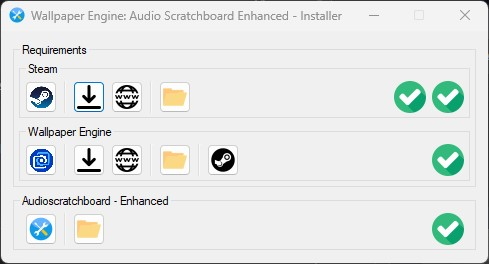
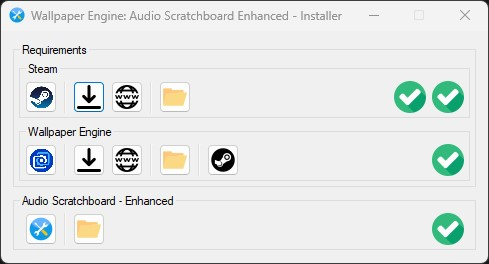
Update

Changed region(s): [[0.092, 0.7273, 0.3681, 0.7879], [0.9816, 0.9697, 1.0, 1.0]]

diff --git a/WallpaperEngineAudioScratchboardEnhancedInstaller/Forms/Main.Designer.cs b/WallpaperEngineAudioScratchboardEnhancedInstaller/Forms/Main.Designer.cs
@@ -342,7 +342,7 @@
             this.GB_AudioscratchboardEnhanced.Size = new System.Drawing.Size(463, 57);
             this.GB_AudioscratchboardEnhanced.TabIndex = 7;
             this.GB_AudioscratchboardEnhanced.TabStop = false;
-            this.GB_AudioscratchboardEnhanced.Text = "Audioscratchboard - Enhanced";
+            this.GB_AudioscratchboardEnhanced.Text = "Audio Scratchboard - Enhanced";
             // 
             // PB_AsbeExists
             // 
